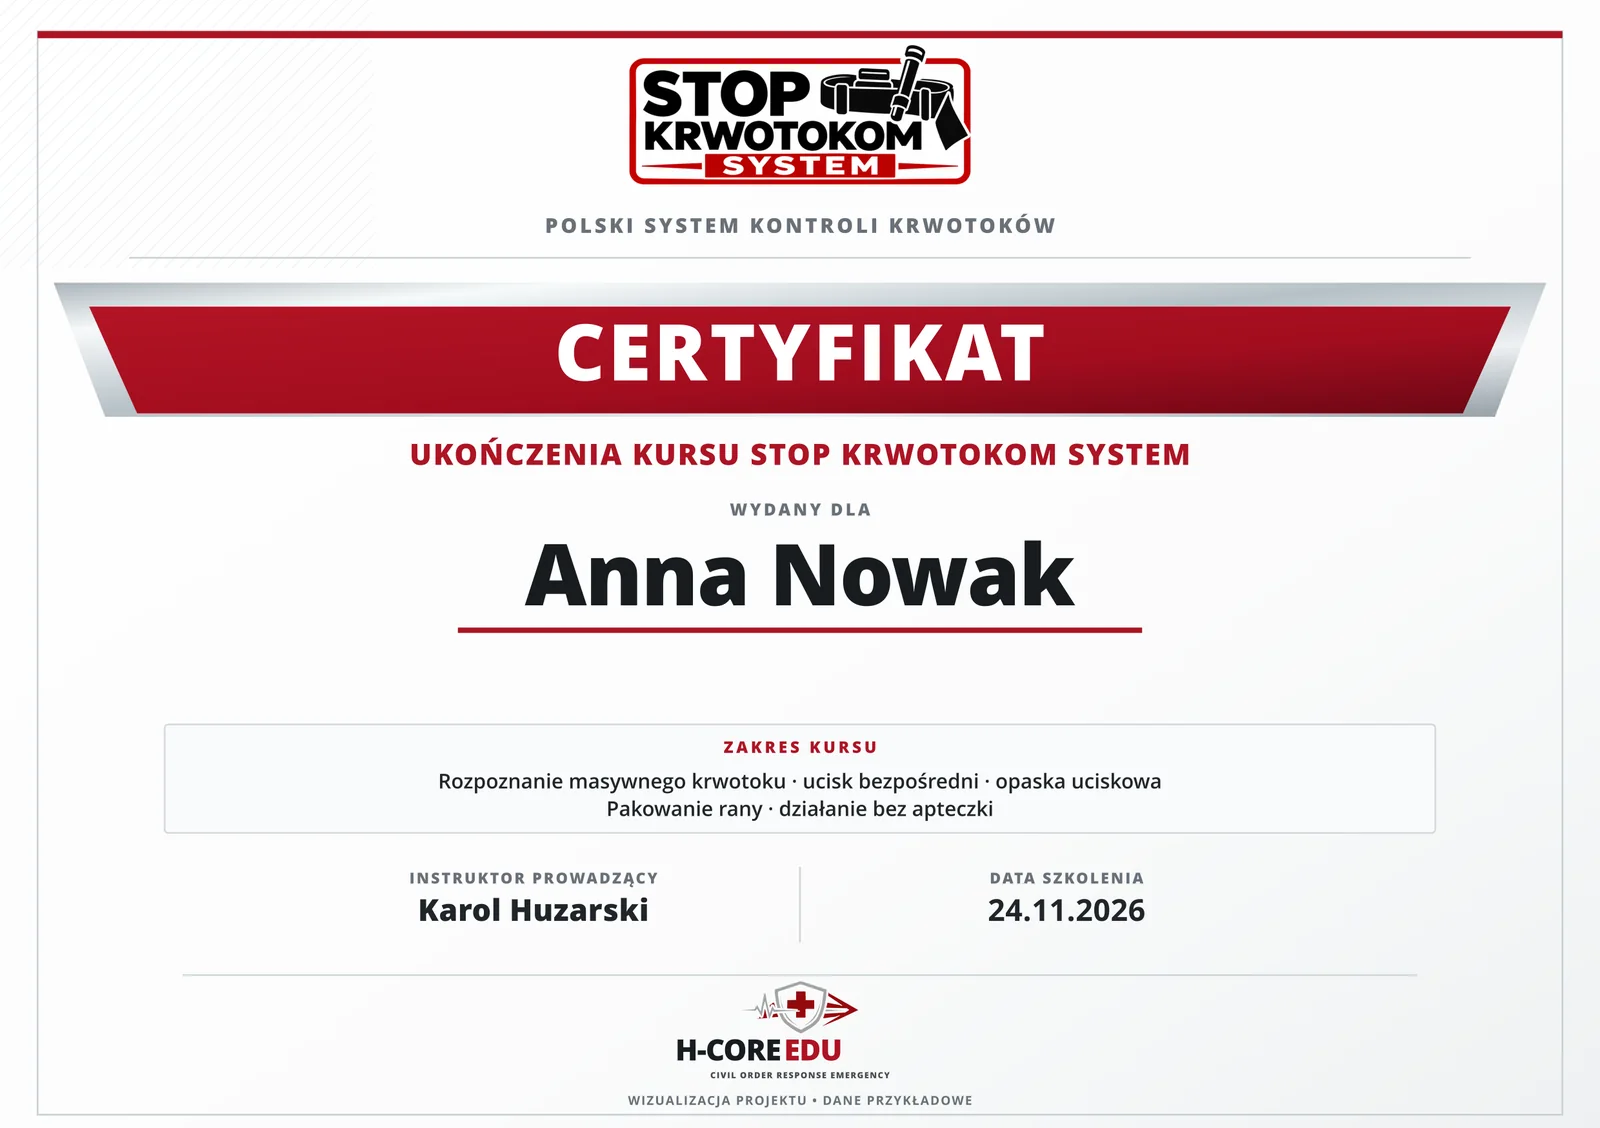
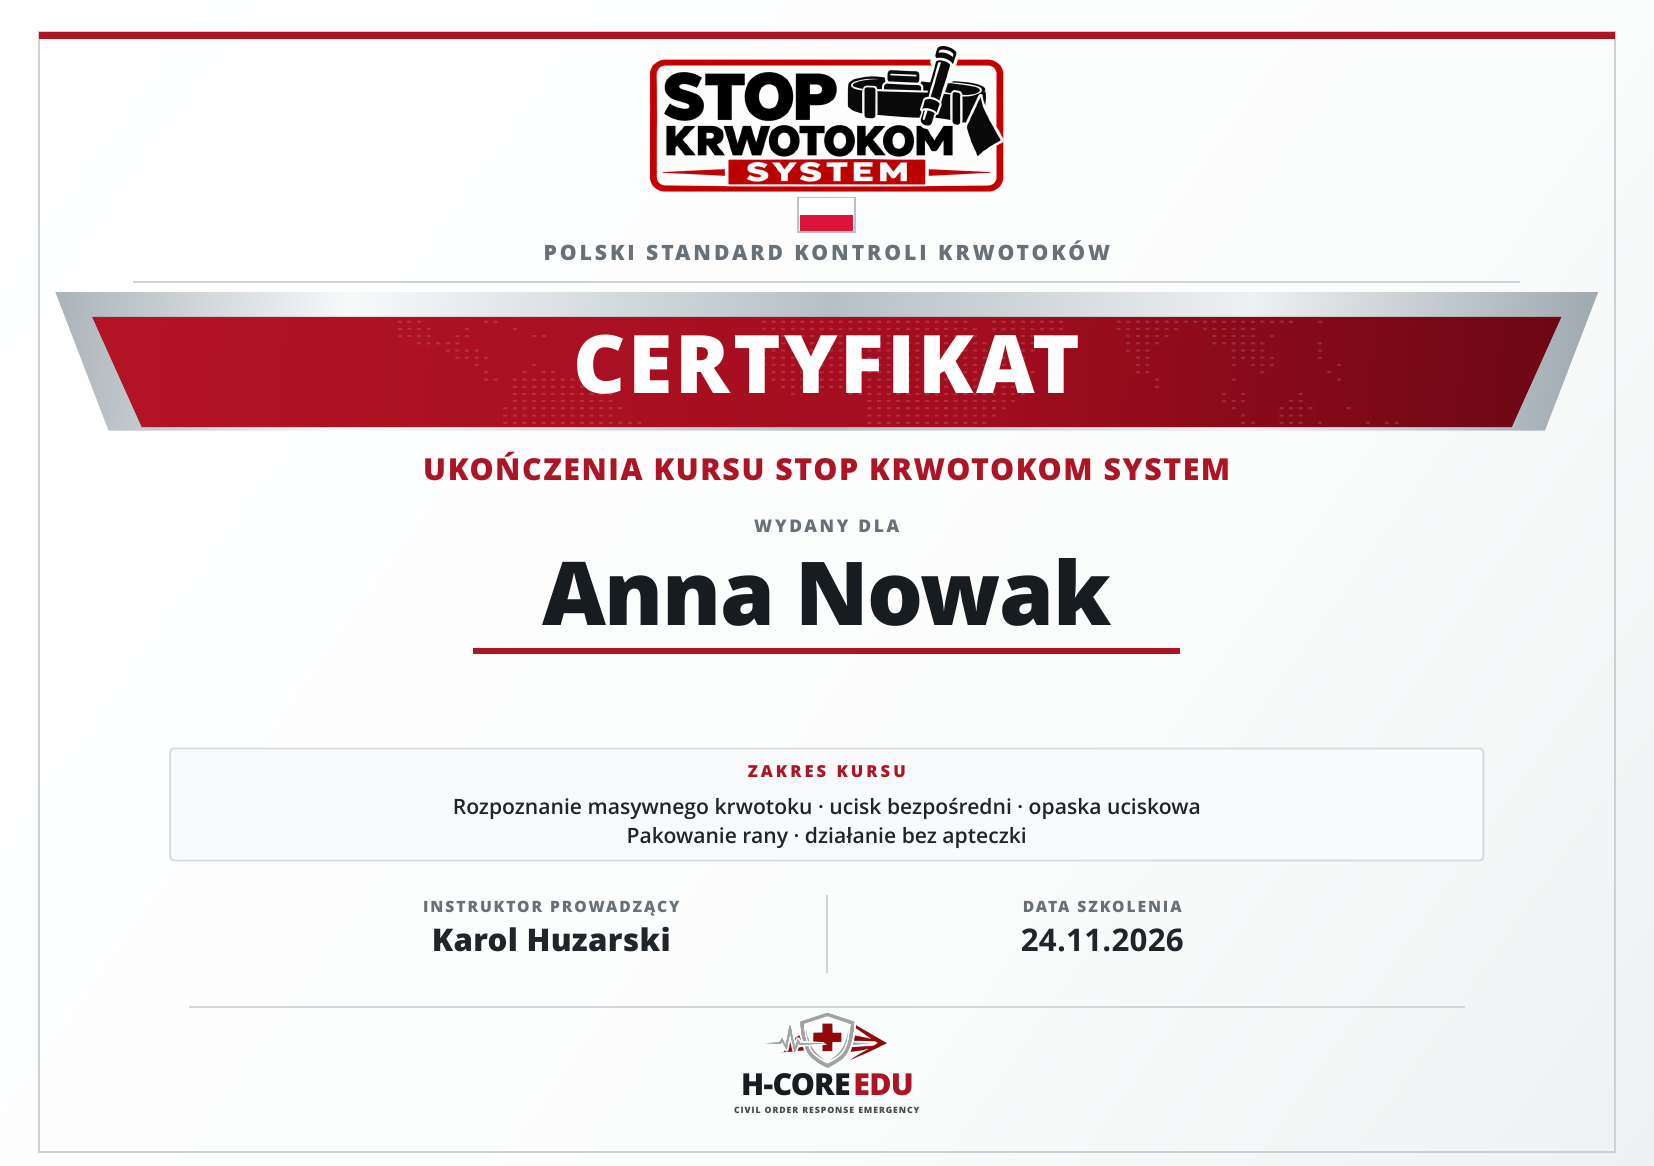
Replace course certificate preview with revised A5 design and reduce size

diff --git a/index.html b/index.html
@@ -82,8 +82,8 @@
 </article>
 </div>
 <figure class="sk-certificate-preview">
-<figcaption><span>CERTYFIKAT UCZESTNIKA</span><small>Wizualizacja z przykładowymi danymi · kliknij, aby powiększyć</small></figcaption>
-<a href="assets/images/certyfikat-sks-uczestnika.png" target="_blank" rel="noopener noreferrer" aria-label="Otwórz wzór certyfikatu STOP KRWOTOKOM SYSTEM w nowej karcie"><img src="assets/images/certyfikat-sks-uczestnika.png" width="1600" height="1128" loading="lazy" decoding="async" alt="Wzór certyfikatu ukończenia kursu STOP KRWOTOKOM SYSTEM z przykładowymi danymi uczestnika"/></a>
+<figcaption><span>CERTYFIKAT UCZESTNIKA</span><small>Wzór certyfikatu · kliknij, aby powiększyć</small></figcaption>
+<a href="assets/images/certyfikat-sks-uczestnika.png?v=20261125-a5" target="_blank" rel="noopener noreferrer" aria-label="Otwórz wzór certyfikatu STOP KRWOTOKOM SYSTEM w nowej karcie"><img src="assets/images/certyfikat-sks-uczestnika.png?v=20261125-a5" width="1654" height="1166" loading="lazy" decoding="async" alt="Wzór certyfikatu ukończenia kursu STOP KRWOTOKOM SYSTEM z przykładowymi danymi uczestnika"/></a>
 </figure>
 </div></section>
 <section class="v2-section instructor-zone" id="instruktor"><div class="sk-inst-watermark" aria-hidden="true"></div><div class="sitecontainer sk-inst-layout">

diff --git a/assets/css/public.css b/assets/css/public.css
@@ -421,7 +421,7 @@ body.guest-mode #visitor .hero-photo-wrap img.sk-cutout-photo {
 #visitor .split-heading h2 { margin-bottom: 0; }
 #visitor .split-heading > p { max-width: 460px; margin: 0; color: var(--sk-muted); font-size: 14px; line-height: 1.8; }
 #visitor .program-cards { display: grid; grid-template-columns: repeat(4, minmax(0, 1fr)); gap: 20px; }
-#visitor .sk-certificate-preview { width: min(100%, 960px); margin: 64px auto 0; }
+#visitor .sk-certificate-preview { width: min(100%, 600px); margin: 64px auto 0; }
 #visitor .sk-certificate-preview figcaption { display: flex; flex-direction: column; align-items: center; gap: 7px; margin-bottom: 20px; text-align: center; }
 #visitor .sk-certificate-preview figcaption span { color: var(--sk-red); font-size: 11px; font-weight: 700; letter-spacing: .14em; }
 #visitor .sk-certificate-preview figcaption small { color: var(--sk-muted); font-size: 12px; line-height: 1.5; }
